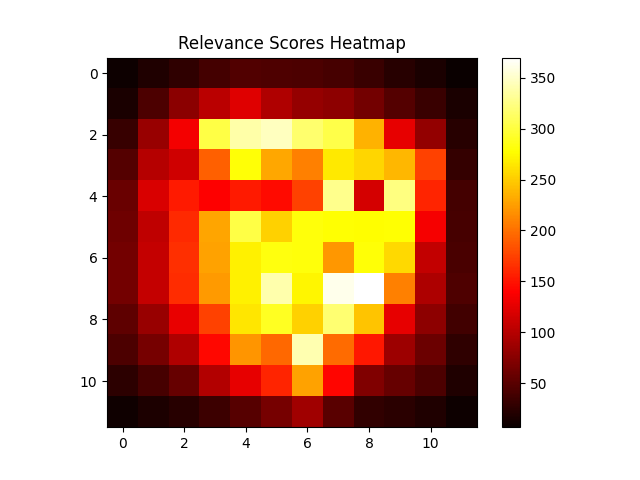
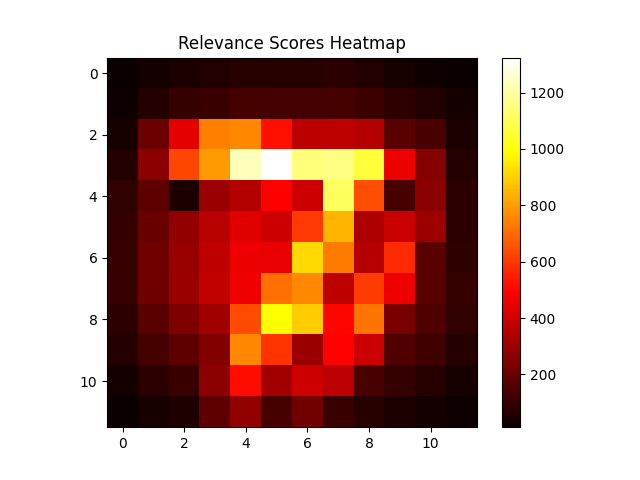
train loop update

diff --git a/main.py b/main.py
@@ -13,60 +13,6 @@ import torch
 import matplotlib.pyplot as plt
 import numpy as np
 
-def evaluate_model(model, device, test_loader):
-    model.eval()
-    test_loss = 0
-    correct = 0
-    with torch.no_grad():
-        for data, target in test_loader:
-            data, target = data.to(device), target.to(device)
-            output = model(data)
-            test_loss += F.cross_entropy(output, target, reduction='sum').item()
-            pred = output.argmax(dim=1, keepdim=True)
-            correct += pred.eq(target.view_as(pred)).sum().item()
-    test_loss /= len(test_loader.dataset)
-    print(f'\nTest set: Average loss: {test_loss:.4f}, Accuracy: {correct}/{len(test_loader.dataset)} ({100. * correct / len(test_loader.dataset):.0f}%)\n')
-
-def train_model():
-    device = torch.device("cuda" if torch.cuda.is_available() else "cpu")
-
-    # Initialize the data loader
-    loader = MNISTDataLoader(batch_size=64)
-    train_loader, test_loader = loader.load_data()
-
-    # Initialize model and move it to the appropriate device
-    model = LeNet5().to(device)
-
-    # Define loss function and optimizer
-    criterion = torch.nn.CrossEntropyLoss()
-    optimizer = optim.Adam(model.parameters())
-
-    # Training loop
-    model.train()
-    for epoch in range(1, 11):  # Train for 10 epochs
-        for batch_idx, (data, target) in enumerate(train_loader):
-            data, target = data.to(device), target.to(device)
-
-            optimizer.zero_grad()
-            output = model(data)
-            loss = criterion(output, target)
-            loss.backward()
-            optimizer.step()
-
-            if batch_idx % 100 == 0:
-                print(f'Epoch {epoch} [{batch_idx * len(data)}/{len(train_loader.dataset)} ({100. * batch_idx / len(train_loader):.0f}%)]\tLoss: {loss.item():.6f}')
-
-    # Evaluation after training
-    evaluate_model(model, device, test_loader)
-
-   # After training and evaluation:
-    sample_inputs, _ = next(iter(test_loader))  # Assuming you want to analyze a batch from the test set
-
-    # Assuming you have an `apply_lrp_to_last_conv_layer` method in `lrp.py`
-    from lrp import apply_lrp_to_last_conv_layer
-
-    relevance_scores = apply_lrp_to_last_conv_layer(model, sample_inputs.to(device))
-    # Now, `relevance_scores` would contain the relevance for each feature map in the last convolutional layer
 
 
 if __name__ == "__main__":
@@ -106,5 +52,38 @@ if __name__ == "__main__":
     plt.title("Relevance Scores Heatmap")
     plt.savefig('relevance_scores_heatmap.png')  # Saves the plot as an image file
     plt.close()  # Closes the plot to free up resources, especially useful if generating many plots in a loop
+
+    relevance_scores_flattened = relevance_summed.flatten()
+
+    plt.hist(relevance_scores_flattened, bins=50, color='blue', alpha=0.7)
+    plt.title('Histogram of Relevance Scores')
+    plt.xlabel('Relevance Score')
+    plt.ylabel('Frequency')
+    plt.grid(True)
+    plt.savefig('relevance_histogram.png')  # Save the histogram
+    plt.close()
+
+    epochs = range(1, len(model_utils.train_losses) + 1)
+    plt.figure(figsize=(12, 5))
+    plt.subplot(1, 2, 1)
+    plt.plot(epochs, model_utils.train_losses, 'b-', label='Loss')
+    plt.title('Training Loss')
+    plt.xlabel('Epoch')
+    plt.ylabel('Loss')
+    plt.legend()
+
+    plt.subplot(1, 2, 2)
+    plt.plot(epochs, model_utils.train_accuracies, 'r-', label='Accuracy')
+    plt.title('Training Accuracy')
+    plt.xlabel('Epoch')
+    plt.ylabel('Accuracy (%)')
+    plt.legend()
+
+    plt.savefig('training_metrics.png')  # Save the figure to a file
+    plt.close()  # Close the plot
+    
+   
+
+
 
 

diff --git a/model_utils.py b/model_utils.py
@@ -6,15 +6,19 @@ class ModelUtils:
     def __init__(self, model, device):
         self.model = model.to(device)
         self.device = device
+        self.train_losses = []
+        self.train_accuracies = []
 
-    def train(self, train_loader, epochs=15, lr=0.001):  # Increase epochs here
+    def train(self, train_loader, epochs=2, lr=0.001):
         self.model.train()
         optimizer = optim.Adam(self.model.parameters(), lr=lr)
         criterion = nn.CrossEntropyLoss()
 
         for epoch in range(epochs):
+            total_loss = 0
             correct = 0
             total = 0
+
             for batch_idx, (data, target) in enumerate(train_loader):
                 data, target = data.to(self.device), target.to(self.device)
                 optimizer.zero_grad()
@@ -23,24 +27,27 @@ class ModelUtils:
                 loss.backward()
                 optimizer.step()
 
+                total_loss += loss.item() * data.size(0)
                 _, predicted = torch.max(output.data, 1)
                 total += target.size(0)
                 correct += (predicted == target).sum().item()
 
+            avg_loss = total_loss / total
             accuracy = 100 * correct / total
-            print(f'Epoch {epoch}, Loss: {loss.item():.6f}, Accuracy: {accuracy:.2f}%')
-
+            self.train_losses.append(avg_loss)
+            self.train_accuracies.append(accuracy)
+            print(f'Epoch {epoch+1}/{epochs}, Loss: {avg_loss:.6f}, Accuracy: {accuracy:.2f}%')
 
     def evaluate(self, test_loader):
         self.model.eval()
         test_loss = 0
         correct = 0
-        criterion = nn.CrossEntropyLoss(reduction='sum')  # Define the loss function here
+        criterion = nn.CrossEntropyLoss(reduction='sum')
         with torch.no_grad():
             for data, target in test_loader:
                 data, target = data.to(self.device), target.to(self.device)
                 output = self.model(data)
-                test_loss += criterion(output, target).item()  # Use the defined loss function
+                test_loss += criterion(output, target).item()
                 pred = output.argmax(dim=1, keepdim=True)
                 correct += pred.eq(target.view_as(pred)).sum().item()
 

diff --git a/lrp.py b/lrp.py
@@ -23,14 +23,13 @@ class LRPLinear(nn.Module):
         return self.last_input * C
 
 
-    def relprop(self, R):
-        # Assume R is the relevance of the output of this layer, we calculate the relevance of the input
+    def relprop(self, R, epsilon=0.01):
         V = self.weight.clamp(min=0)
-        Z = torch.mm(self.input, V.t()) + self.bias + 1e-9  # Adding bias for stability
+        Z = torch.mm(self.last_input, V.t()) + self.bias + epsilon  # Adding epsilon for stability
         S = R / Z
         C = torch.mm(S, V)
-        R = self.input * C
-        return R
+        return self.last_input * C
+
 
 class LRPConv2d(nn.Module):
     def __init__(self, in_channels, out_channels, kernel_size, stride=1, padding=0):
